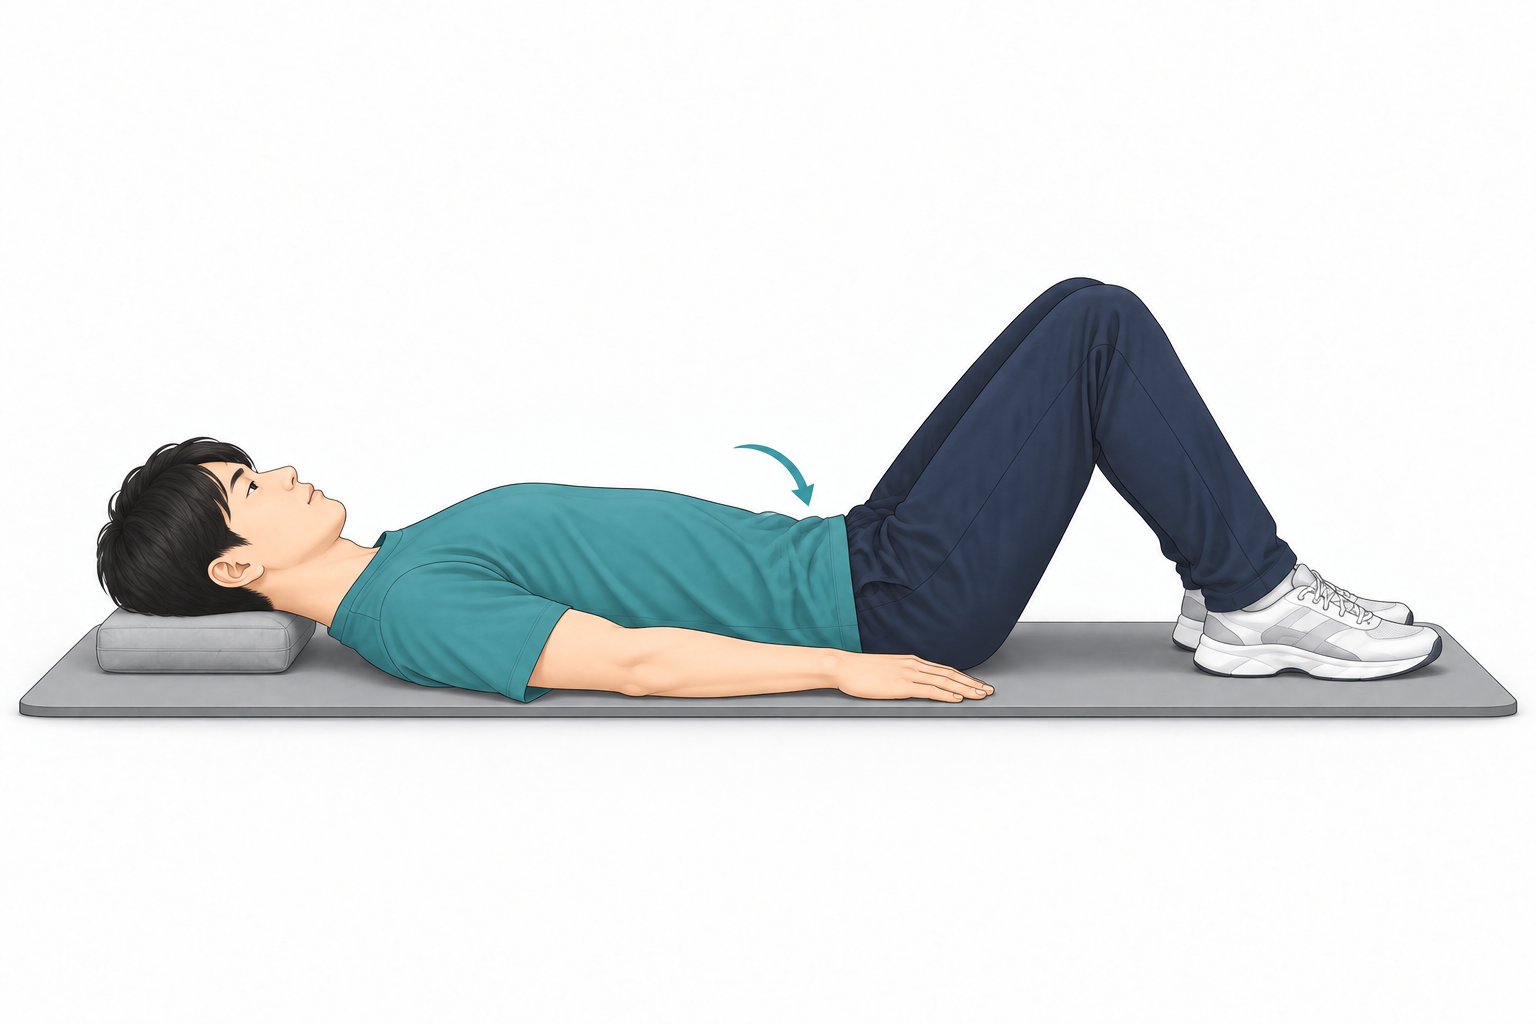
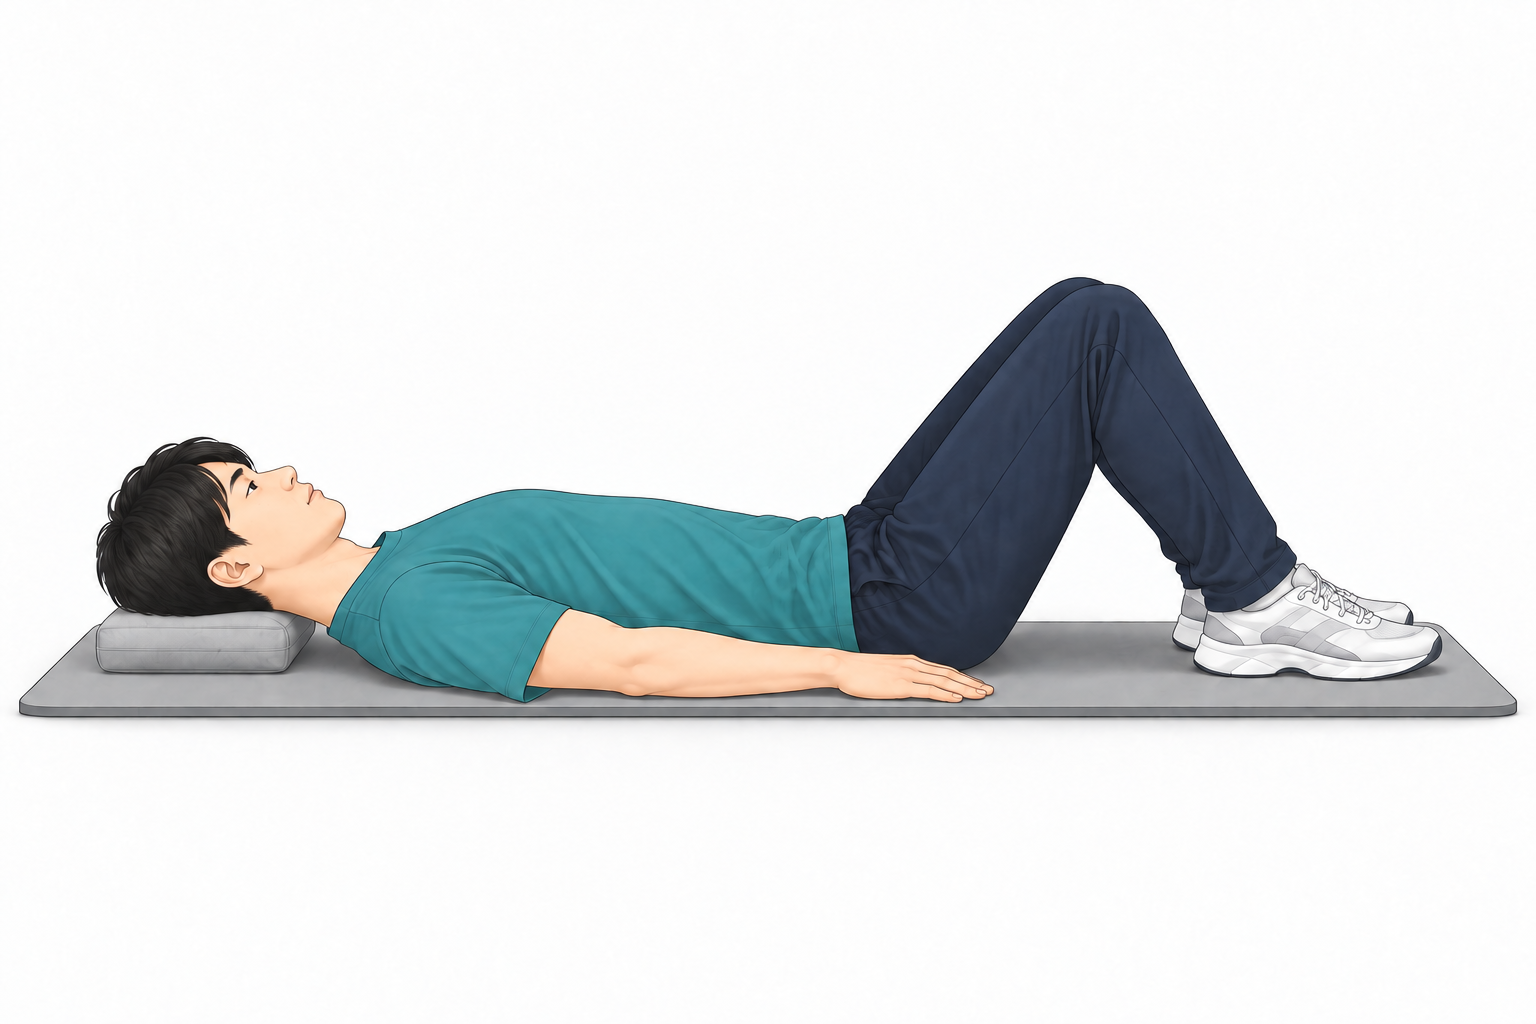
Remove misleading pelvic tilt arrow and clarify movement caption

diff --git a/exercises.js b/exercises.js
@@ -180,6 +180,7 @@ EXERCISE_LIBRARY['resisted-forearm-turn'].imageCaption='図は開始姿勢の例
 EXERCISE_LIBRARY['shoulder-isometric-internal'].imageCaption='肘を脇につけたまま、運動する側の手首をお腹の方向へ押し、反対の手で受け止めます。腕が動かない程度の軽い力にします。';
 EXERCISE_LIBRARY['wrist-flexor-stretch'].imageCaption='手のひらを上へ向けた姿勢から、指先を下へ向けるよう手首を反らした場面です。反対の手で手のひら側を支え、指先だけを引きません。';
 EXERCISE_LIBRARY['sit-to-stand'].imageCaption='腕を組む姿勢は一例です。腕を組む必要はありません。担当の理学療法士が指定した椅子の高さと手の支え方で行ってください。';
+EXERCISE_LIBRARY['pelvic-tilt'].imageCaption='お尻を床につけたまま、腰と床の隙間をそっと小さくし、力を抜いて元に戻します。腰を強く反らしたり、お尻を持ち上げたりしません。';
 
 // First neck/shoulder batch: conservative care selected after clinical assessment.
 const NECK_SHOULDER_SOURCES = {

diff --git a/sw.js b/sw.js
@@ -1,7 +1,7 @@
 // Cache only this application's public assets, never settings URLs or other apps.
 importScripts('./exercises.js');
 const PREFIX = 'patient-rehab-' + encodeURIComponent(self.registration.scope) + '-';
-const CACHE = PREFIX + 'v30';
+const CACHE = PREFIX + 'v31';
 const FILES = ['./','./index.html','./manifest.json','./core.js','./exercises.js','./prescription-defaults.js','./disease-library.js','./exercise-selection.js','./ui.js','./app-v2.js','./app-v2.css',
   './icon-180.png','./icon-192.png','./icon-512.png',
   './vendor/lz-string.min.js','./vendor/qrcode.min.js','./vendor/html5-qrcode.min.js',
